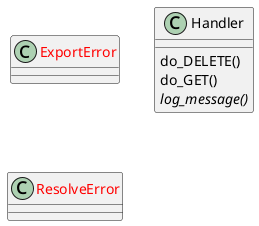
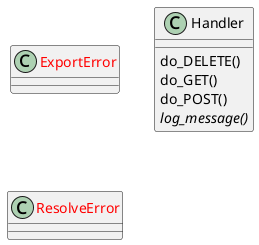
feat(webterm): extend toolbar injection and add validate.sh
Extends configs/webterm/index.html (42 lines) and scripts/inject_toolbar.py
with improved toolbar rendering. Adds scripts/validate.sh (16 lines) for
config validation. Updates docs/troubleshooting.md, README, and LESSONSLEARNED.
Regenerates diagrams.

Changed region(s): [[0.5869, 0.0, 0.9884, 0.5575], [0.0309, 0.1549, 0.4633, 0.4027], [0.0309, 0.7434, 0.4942, 0.9912]]

diff --git a/configs/webterm/index.html b/configs/webterm/index.html
@@ -147,6 +147,16 @@
       background: #0d1117;
     }
     #pb-clip-panel.pb-open { display: flex; }
+    #pb-clip-heading {
+      flex: 0 0 auto;
+      display: flex;
+      flex-direction: column;
+      gap: 4px;
+      color: #c9d1d9;
+      font-family: ui-monospace, monospace;
+    }
+    #pb-clip-title { font-size: 20px; }
+    #pb-clip-help { color: #8b949e; font-size: 14px; }
     #pb-clip-text {
       width: 100%;
       flex: 1 1 auto;
@@ -176,6 +186,8 @@
       border-radius: 10px;
       font-size: 20px;
     }
+    #pb-clip-panel[data-mode="select"] [data-clip-send],
+    #pb-clip-panel[data-mode="paste"] [data-clip-copy] { display: none; }
     @media (orientation: landscape) and (max-height: 520px) {
       :root {
         --pb-topbar-h: 40px;
@@ -278,6 +290,10 @@
     -->
   </div>
   <div id="pb-clip-panel" aria-hidden="true">
+    <div id="pb-clip-heading">
+      <strong id="pb-clip-title">Clipboard</strong>
+      <span id="pb-clip-help"></span>
+    </div>
     <textarea id="pb-clip-text"
       autocomplete="off" autocorrect="off" autocapitalize="none" spellcheck="false"></textarea>
     <div id="pb-clip-actions">
@@ -886,11 +902,22 @@
         var area = getClipTextArea();
         if (!panel || !area) { return; }
         var selectMode = mode === 'select';
+        var title = document.getElementById('pb-clip-title');
+        var help = document.getElementById('pb-clip-help');
         // Mobile Safari can refuse useful selection handles in readonly textareas.
         area.readOnly = false;
         area.value = text || '';
+        area.placeholder = selectMode ? '' : 'Touch and hold here, then choose Paste';
+        area.setAttribute('aria-label', selectMode ? 'Terminal text selection' : 'Text to paste into terminal');
         panel.classList.add('pb-open');
+        panel.setAttribute('data-mode', selectMode ? 'select' : 'paste');
         panel.setAttribute('aria-hidden', 'false');
+        if (title) { title.textContent = selectMode ? 'Select terminal text' : 'Paste into terminal'; }
+        if (help) {
+          help.textContent = selectMode
+            ? 'Select the text you need, then tap copy.'
+            : 'Use the browser paste action below, then tap send.';
+        }
         document.body.classList.toggle('pb-sel-mode', selectMode);
         setSelectButton(selectMode);
         window.requestAnimationFrame(function () {
@@ -907,10 +934,12 @@
         var area = getClipTextArea();
         if (panel) {
           panel.classList.remove('pb-open');
+          panel.removeAttribute('data-mode');
           panel.setAttribute('aria-hidden', 'true');
         }
         if (area) {
           area.value = '';
+          area.placeholder = '';
           area.readOnly = false;
         }
         document.body.classList.remove('pb-sel-mode');
@@ -1114,16 +1143,23 @@
         handleControlClick(button);
       }
 
+      function isPasteControl(button) {
+        return button && button.getAttribute('data-paste') !== null;
+      }
+
       document.addEventListener('pointerup', function (event) {
         if (event.pointerType === 'mouse') { return; }
-        if (!event.target.closest(CONTROL_SELECTOR)) { return; }
+        var button = event.target.closest(CONTROL_SELECTOR);
+        // WebKit can reject async clipboard reads unless they start from click.
+        if (!button || isPasteControl(button)) { return; }
         lastPointerControlAt = Date.now();
         activateControl(event);
       }, true);
 
       document.addEventListener('click', function (event) {
-        if (!event.target.closest(CONTROL_SELECTOR)) { return; }
-        if (Date.now() - lastPointerControlAt < 700) {
+        var button = event.target.closest(CONTROL_SELECTOR);
+        if (!button) { return; }
+        if (!isPasteControl(button) && Date.now() - lastPointerControlAt < 700) {
           event.preventDefault();
           event.stopPropagation();
           return;

diff --git a/scripts/inject_toolbar.py b/scripts/inject_toolbar.py
@@ -159,6 +159,16 @@ body.pb-sel-mode .xterm canvas {
   background: #0d1117;
 }
 #pb-clip-panel.pb-open { display: flex; }
+#pb-clip-heading {
+  flex: 0 0 auto;
+  display: flex;
+  flex-direction: column;
+  gap: 4px;
+  color: #c9d1d9;
+  font-family: ui-monospace, monospace;
+}
+#pb-clip-title { font-size: 20px; }
+#pb-clip-help { color: #8b949e; font-size: 14px; }
 #pb-clip-text {
   width: 100%;
   flex: 1 1 auto;
@@ -188,6 +198,8 @@ body.pb-sel-mode .xterm canvas {
   border-radius: 10px;
   font-size: 20px;
 }
+#pb-clip-panel[data-mode="select"] [data-clip-send],
+#pb-clip-panel[data-mode="paste"] [data-clip-copy] { display: none; }
 @media (orientation: landscape) and (max-height: 520px) {
   :root {
     --pb-topbar-h: 40px;
@@ -286,6 +298,10 @@ INJECTED_HTML = """\
   -->
 </div>
 <div id="pb-clip-panel" aria-hidden="true">
+  <div id="pb-clip-heading">
+    <strong id="pb-clip-title">Clipboard</strong>
+    <span id="pb-clip-help"></span>
+  </div>
   <textarea id="pb-clip-text"
     autocomplete="off" autocorrect="off" autocapitalize="none" spellcheck="false"></textarea>
   <div id="pb-clip-actions">
@@ -901,11 +917,22 @@ WS_INTERCEPTOR = """\
     var area = getClipTextArea();
     if (!panel || !area) { return; }
     var selectMode = mode === 'select';
+    var title = document.getElementById('pb-clip-title');
+    var help = document.getElementById('pb-clip-help');
     // Mobile Safari can refuse useful selection handles in readonly textareas.
     area.readOnly = false;
     area.value = text || '';
+    area.placeholder = selectMode ? '' : 'Touch and hold here, then choose Paste';
+    area.setAttribute('aria-label', selectMode ? 'Terminal text selection' : 'Text to paste into terminal');
     panel.classList.add('pb-open');
+    panel.setAttribute('data-mode', selectMode ? 'select' : 'paste');
     panel.setAttribute('aria-hidden', 'false');
+    if (title) { title.textContent = selectMode ? 'Select terminal text' : 'Paste into terminal'; }
+    if (help) {
+      help.textContent = selectMode
+        ? 'Select the text you need, then tap copy.'
+        : 'Use the browser paste action below, then tap send.';
+    }
     document.body.classList.toggle('pb-sel-mode', selectMode);
     setSelectButton(selectMode);
     window.requestAnimationFrame(function () {
@@ -922,10 +949,12 @@ WS_INTERCEPTOR = """\
     var area = getClipTextArea();
     if (panel) {
       panel.classList.remove('pb-open');
+      panel.removeAttribute('data-mode');
       panel.setAttribute('aria-hidden', 'true');
     }
     if (area) {
       area.value = '';
+      area.placeholder = '';
       area.readOnly = false;
     }
     document.body.classList.remove('pb-sel-mode');
@@ -1129,16 +1158,23 @@ WS_INTERCEPTOR = """\
     handleControlClick(button);
   }
 
+  function isPasteControl(button) {
+    return button && button.getAttribute('data-paste') !== null;
+  }
+
   document.addEventListener('pointerup', function (event) {
     if (event.pointerType === 'mouse') { return; }
-    if (!event.target.closest(CONTROL_SELECTOR)) { return; }
+    var button = event.target.closest(CONTROL_SELECTOR);
+    // WebKit can reject async clipboard reads unless they start from click.
+    if (!button || isPasteControl(button)) { return; }
     lastPointerControlAt = Date.now();
     activateControl(event);
   }, true);
 
   document.addEventListener('click', function (event) {
-    if (!event.target.closest(CONTROL_SELECTOR)) { return; }
-    if (Date.now() - lastPointerControlAt < 700) {
+    var button = event.target.closest(CONTROL_SELECTOR);
+    if (!button) { return; }
+    if (!isPasteControl(button) && Date.now() - lastPointerControlAt < 700) {
       event.preventDefault();
       event.stopPropagation();
       return;

diff --git a/docs/troubleshooting.md b/docs/troubleshooting.md
@@ -110,10 +110,11 @@ Check:
 
 Check:
 
-1. `/etc/pit-box/webterm/index.html` contains `pb-clip-panel`, `inset: 0`, `collectBufferText`, `collectDomText`, and `data-clip-send`.
+1. `/etc/pit-box/webterm/index.html` contains `pb-clip-panel`, `pb-clip-title`, `inset: 0`, `collectBufferText`, `collectDomText`, `isPasteControl`, and `data-clip-send`.
 2. tap `sel`; a full-screen native text panel should open with terminal scrollback selected for mobile copy handles.
-3. tap `paste`; if the browser blocks clipboard read access, paste into the native text panel and tap `send`.
-4. hard-refresh the browser after `sudo ./scripts/rebuild_webservices.sh ttyd`; stale JavaScript can leave the old select-only toolbar active.
+3. tap `paste`; the browser should paste directly when it grants clipboard access. If it blocks the read, a panel titled `Paste into terminal` should open with only `send` and `close` actions.
+4. use the browser's native paste action in that fallback panel, then tap `send`.
+5. hard-refresh the browser after `sudo ./scripts/rebuild_webservices.sh ttyd`; stale JavaScript can leave the old shared select/paste panel active.
 
 ## Home page does not show live terminals
 

diff --git a/LESSONSLEARNED.md b/LESSONSLEARNED.md
@@ -44,6 +44,11 @@ Unlike `CHATHISTORY.md`, this file should keep only reusable lessons that should
   native textarea panel backed by xterm scrollback for selection/copy and a
   visible-terminal DOM fallback plus a manual paste/send fallback when
   `navigator.clipboard.readText()` is denied.
+- Run mobile WebTerm clipboard reads from the browser's normal `click` event,
+  not the toolbar's pointer-up fast path; WebKit can reject asynchronous
+  clipboard access outside that event. Keep denied-read paste fallback visibly
+  distinct from the select/copy panel so users know to use native paste and
+  then send.
 - Mobile WebTerm toolbar buttons should handle touch/pointer activation in
   addition to normal `click`; terminal canvases and mobile browser chrome can
   make click-only handlers feel intermittent even when the desktop path works.

diff --git a/README.md b/README.md
@@ -319,8 +319,9 @@ The expectation here is:
   then `PgUp`, `PgDn`, `Bottom`, and arrows
 - `sel`, `copy`, and `paste` provide mobile clipboard support: selection opens a native text
   panel that fills the screen and is backed by terminal scrollback or visible terminal DOM text;
-  copy uses browser clipboard with a textarea fallback, and paste falls back to the same native
-  panel with a `send` button when clipboard reads are blocked
+  copy uses browser clipboard with a textarea fallback; paste requests clipboard access from the
+  browser's normal click path and, when blocked, opens a clearly labeled paste-only panel with a
+  `send` button
 - The `-kill` button changes color on the first tap and only detaches the current browser
   terminal after a second tap, leaving the shared tmux windows intact
 - The terminal surface has an explicit one-finger touch scroller, and the page navigation buttons